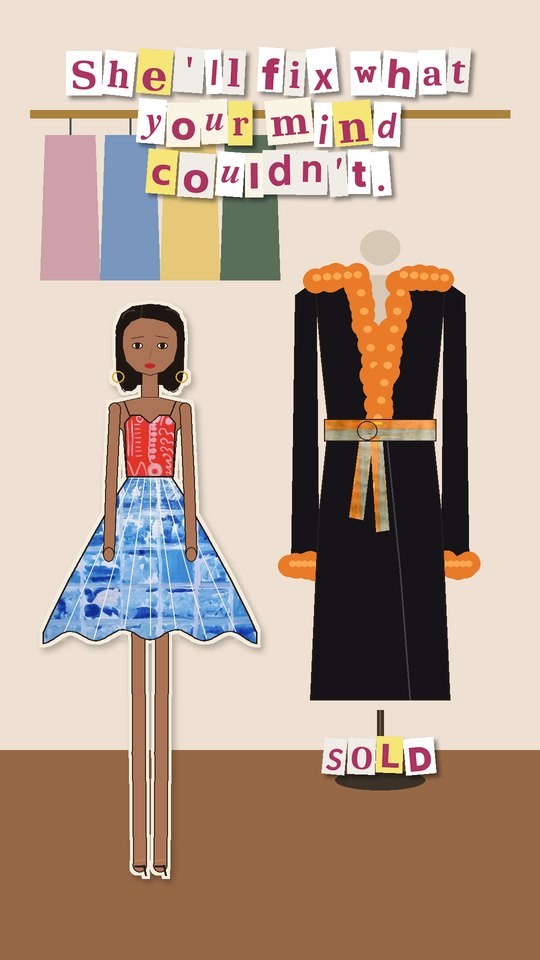
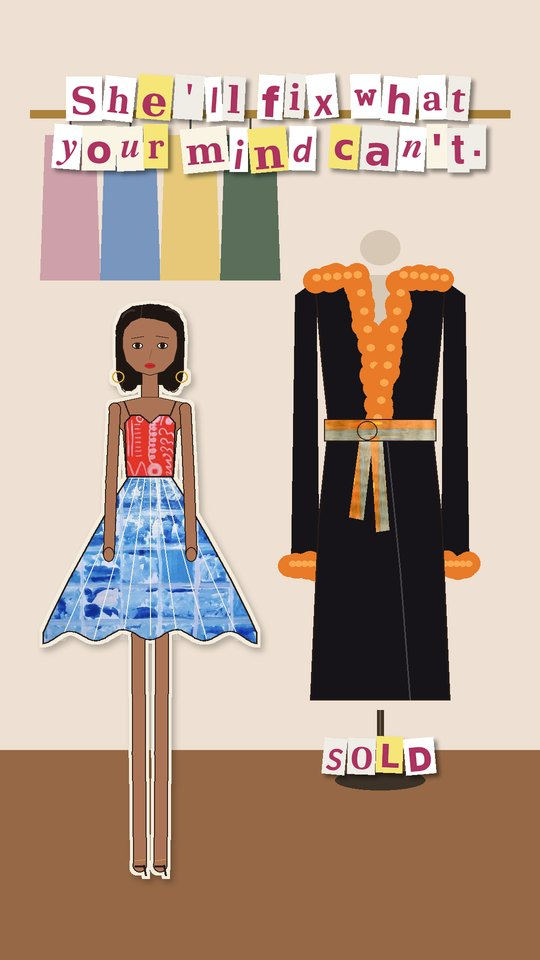
Reel 3: line 5 reads 'She'll fix what your mind can't.'
Claude-Session: https://claude.ai/code/session_019PesBt99WngamYtmRE4Gta

Changed region(s): [[0.0889, 0.0312, 0.9185, 0.2188]]

diff --git a/reel3/render.py b/reel3/render.py
@@ -14,7 +14,7 @@ GX, GY = B.GIRL[0], B.GIRL[1] - 660
 # (start, end, text): cut-letter lines, popped in
 LINES = [(0.4, 3.6, "Draw a box. Step in."), (3.8, 6.9, "Shut out the noise. Yours too."),
          (13.2, 16.0, "There's a child in there who never stopped playing."), (16.2, 19.0, "Hand her your problems and a crayon."),
-         (19.3, 24.9, "She'll fix what your mind couldn't."), (25.3, 28.9, "There. I have just taught you how to meditate.")]
+         (19.3, 24.9, "She'll fix what your mind can't."), (25.3, 28.9, "There. I have just taught you how to meditate.")]
 TXT = [B.r2.ransom(t, (173, 51, 97), size=76 if len(t) < 40 else 68, seed=100 + i, max_w=880) for i, (_, _, t) in enumerate(LINES)]
 
 

diff --git a/reel3/board.py b/reel3/board.py
@@ -529,8 +529,8 @@ COPY = {
     "02": "Shut out the noise. Yours too.",
     "05": "There's a child in there who never stopped playing.",
     "06": "Hand her your problems and a crayon.",
-    "07": "She'll fix what your mind couldn't.",
-    "07b": "She'll fix what your mind couldn't.",
+    "07": "She'll fix what your mind can't.",
+    "07b": "She'll fix what your mind can't.",
     "08": "There. I have just taught you how to meditate.",
 }
 
